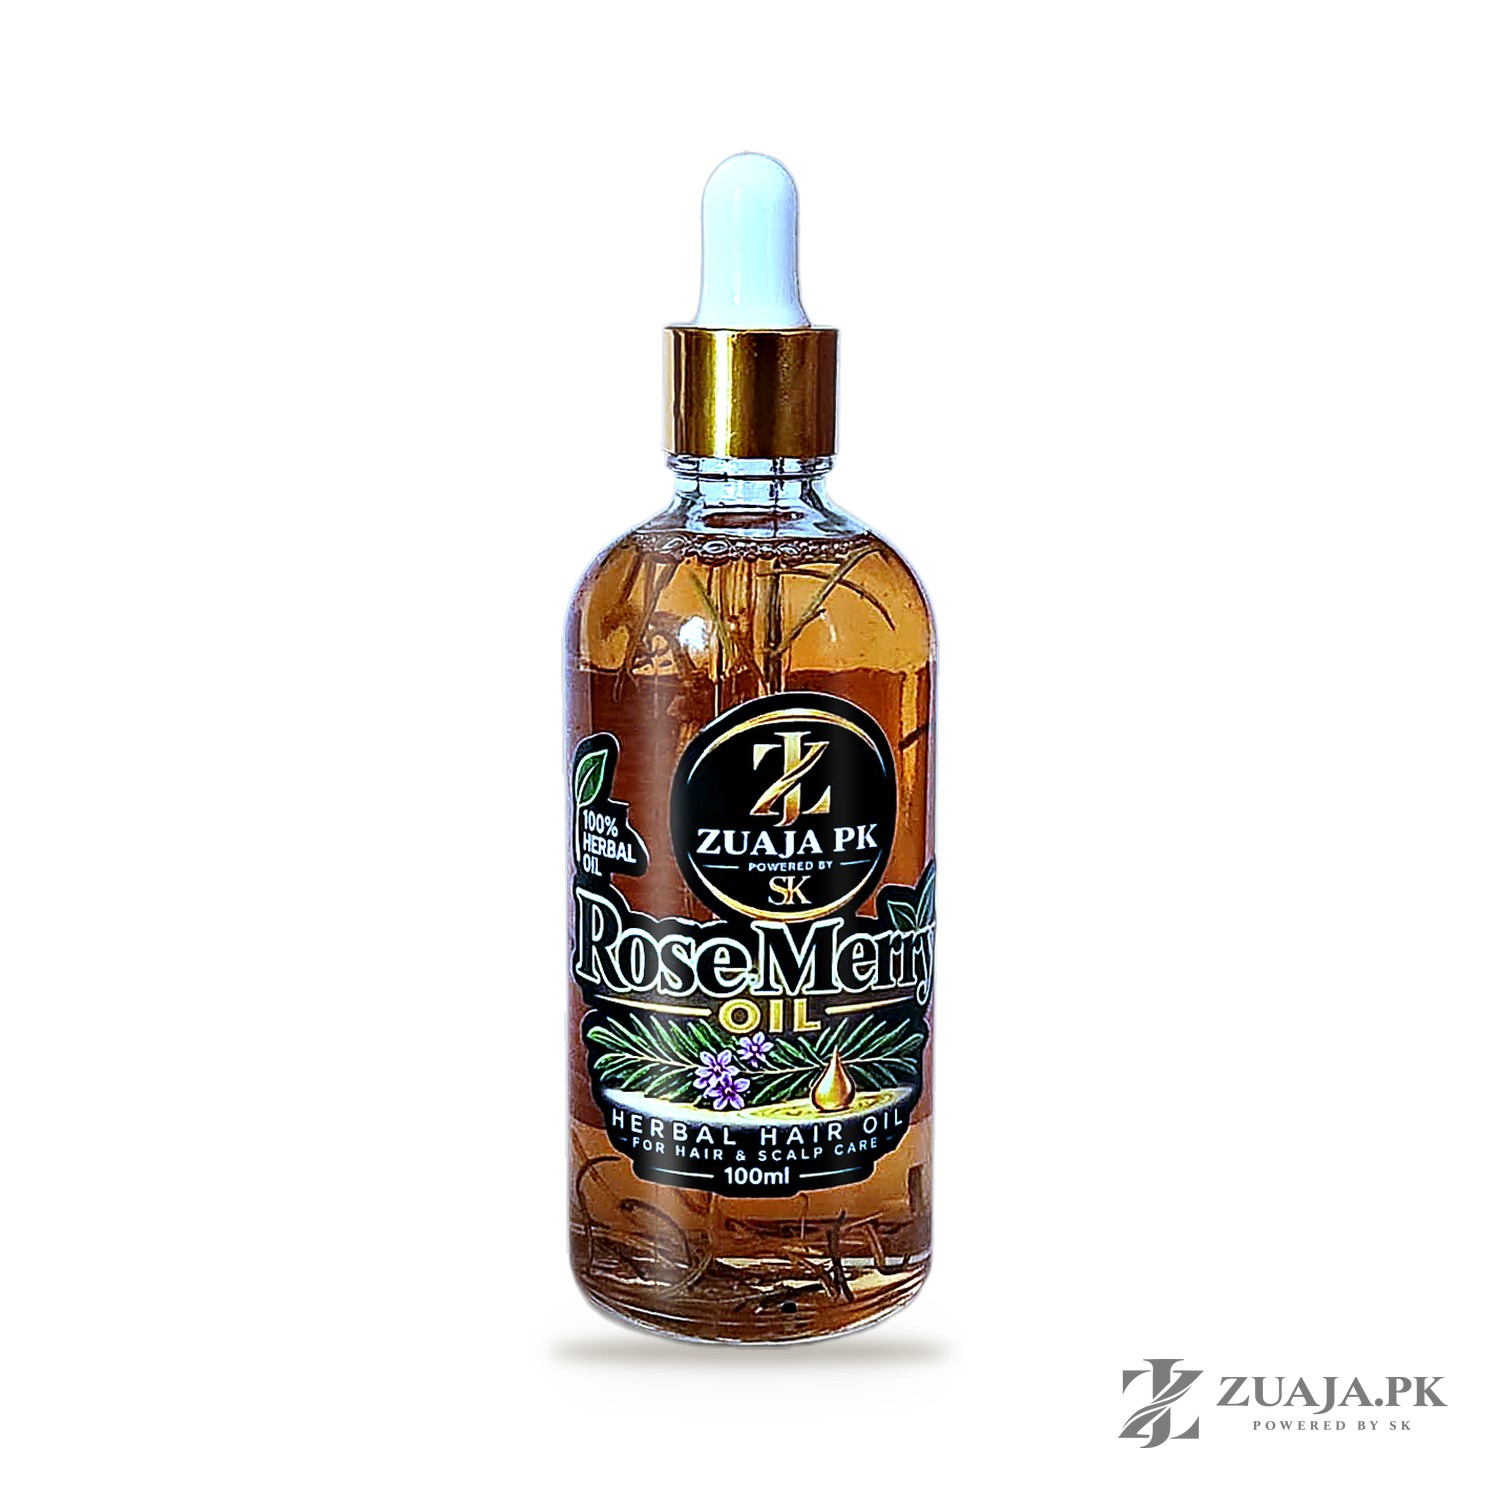
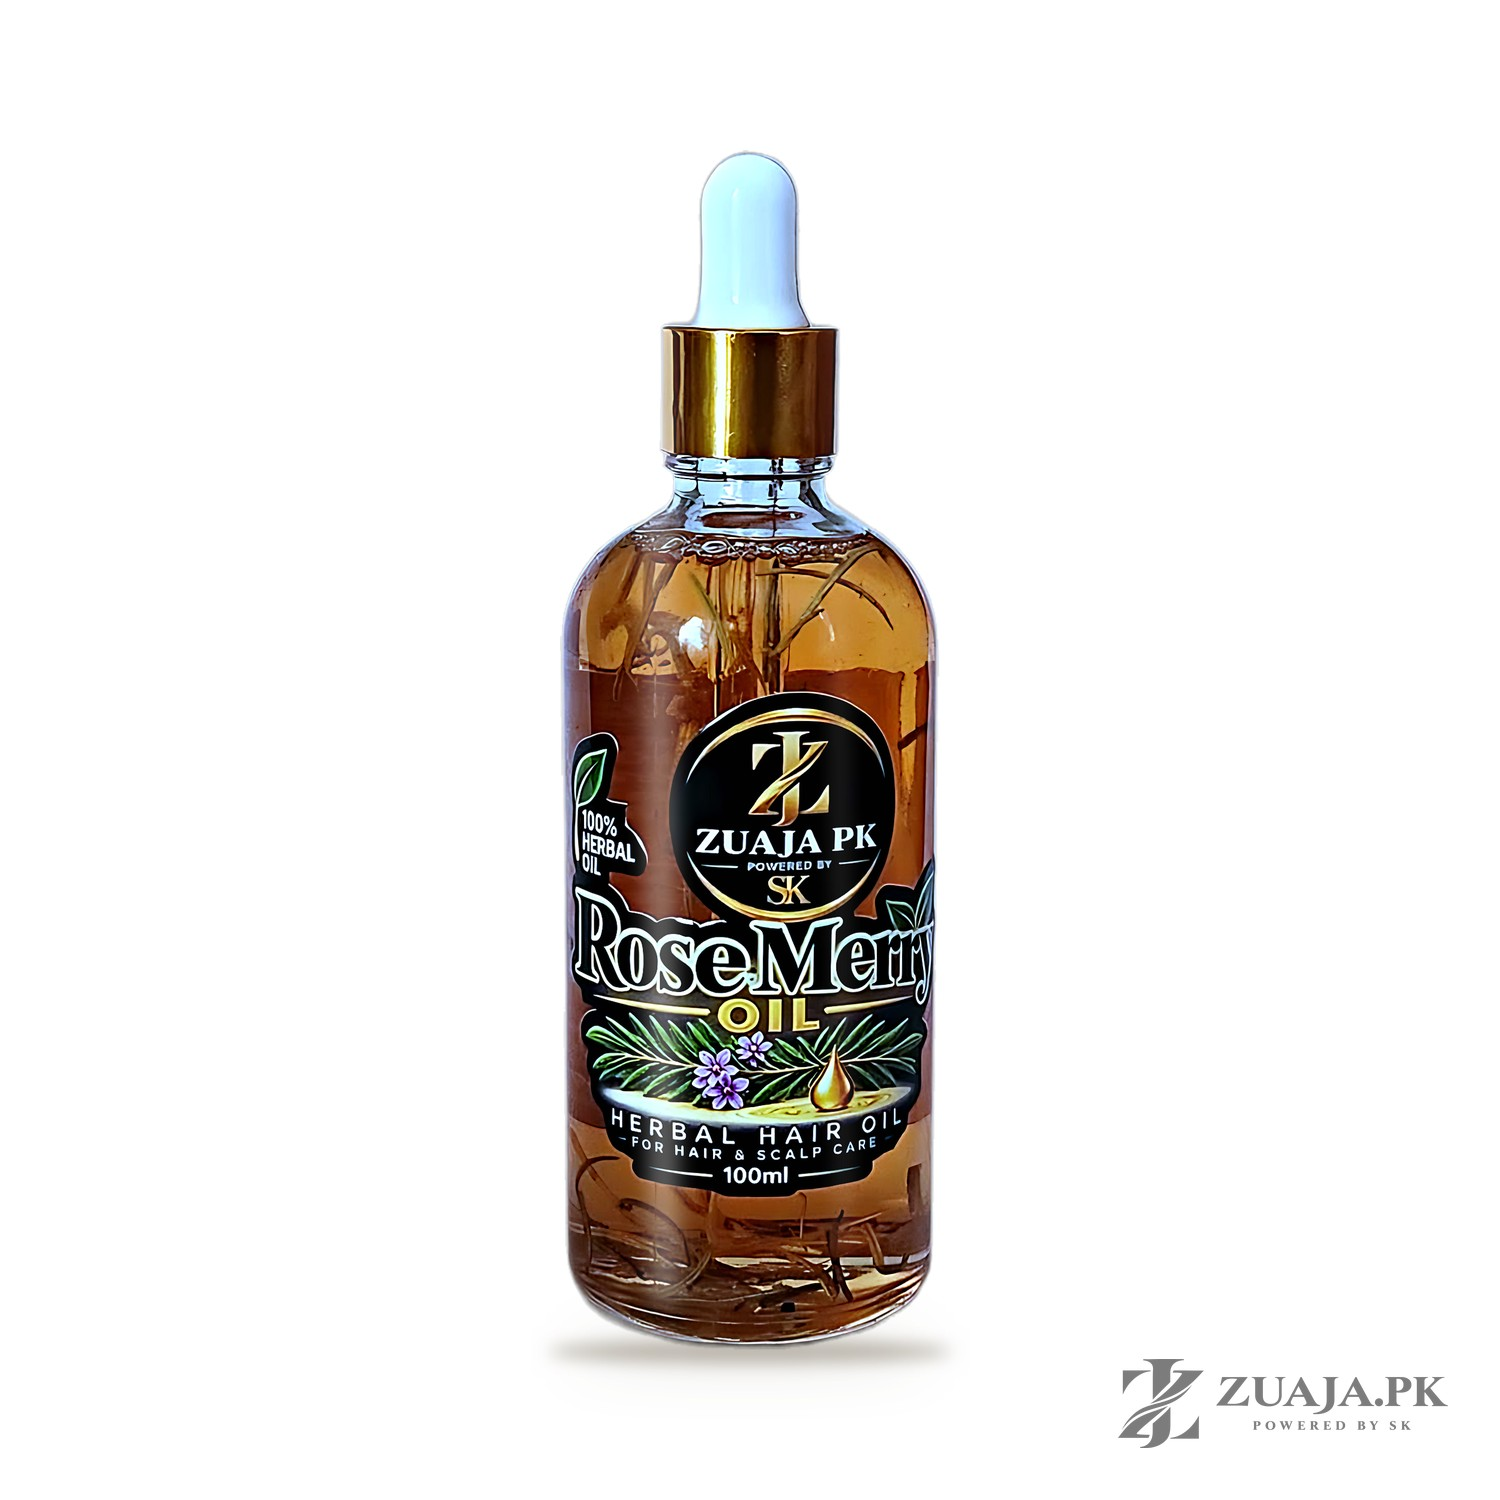
AI photo restoration (Real-ESRGAN via onnxruntime, weights-only loader) + theme sections for white storefront
Claude-Session: https://claude.ai/code/session_01FHxRitzaKkbjSXsXse4VX8

Changed region(s): [[0.368, 0.092, 0.644, 0.92]]

diff --git a/theme/assets/zs.css b/theme/assets/zs.css
@@ -1,0 +1,76 @@
+/* Zuaja Shop (zs) — white light theme: clean e-commerce structure, Zuaja ink + gold accents. */
+.zs{--zs-ink:#171717;--zs-gold:#b08028;--zs-gold-l:#e5c271;--zs-line:#ece6da;--zs-soft:#faf8f4;--zs-muted:#6b6457;--zs-sale:#b3261e;--zs-radius:14px;background:#fff;color:var(--zs-ink)}
+.zs *{box-sizing:border-box}
+.zs-wrap{width:min(1240px,100% - 32px);margin-inline:auto}
+.zs-section{padding-block:clamp(28px,5vw,56px)}
+.zs-head{display:flex;align-items:end;justify-content:space-between;gap:16px;margin-block-end:22px}
+.zs-head h2{margin:0;font-family:'Cinzel','Times New Roman',serif;font-weight:600;font-size:clamp(22px,3vw,32px);letter-spacing:.02em}
+.zs-head p{margin:6px 0 0;color:var(--zs-muted);font-size:14px}
+.zs-head a{flex:none;color:var(--zs-ink);font-weight:600;font-size:14px;text-decoration:underline;text-underline-offset:4px}
+.zs-kicker{display:block;color:var(--zs-gold);font-size:12px;font-weight:600;letter-spacing:.2em;text-transform:uppercase;margin-block-end:6px}
+
+/* hero slider */
+.zs-hero{position:relative;background:#fff}
+.zs-hero__track{display:flex;overflow-x:auto;scroll-snap-type:x mandatory;scroll-behavior:smooth;scrollbar-width:none}
+.zs-hero__track::-webkit-scrollbar{display:none}
+.zs-hero__slide{flex:0 0 100%;scroll-snap-align:start;display:block}
+.zs-hero__slide img{display:block;width:100%;height:auto}
+.zs-hero__dots{position:absolute;inset-inline:0;inset-block-end:14px;display:flex;justify-content:center;gap:8px}
+.zs-hero__dots button{width:9px;height:9px;padding:0;border:0;border-radius:99px;background:rgb(23 23 23 / .25);cursor:pointer;transition:width .3s ease,background .3s ease}
+.zs-hero__dots button[aria-current="true"]{width:26px;background:var(--zs-gold)}
+
+/* trust strip */
+.zs-trust{border-block:1px solid var(--zs-line);background:var(--zs-soft)}
+.zs-trust ul{display:grid;grid-template-columns:repeat(4,minmax(0,1fr));gap:12px;margin:0;padding:16px 0;list-style:none}
+.zs-trust li{display:flex;align-items:center;justify-content:center;gap:10px;font-size:14px;font-weight:600;text-align:start}
+.zs-trust svg{flex:none;width:26px;height:26px;stroke:var(--zs-gold);fill:none;stroke-width:1.6;stroke-linecap:round;stroke-linejoin:round}
+@media (max-width:760px){.zs-trust ul{grid-template-columns:repeat(2,minmax(0,1fr))}.zs-trust li{justify-content:flex-start;font-size:13px}}
+
+/* categories */
+.zs-cats{display:grid;grid-template-columns:repeat(6,minmax(0,1fr));gap:18px}
+.zs-cat{display:grid;justify-items:center;gap:10px;color:var(--zs-ink);text-decoration:none;text-align:center}
+.zs-cat img{width:100%;max-width:170px;height:auto;aspect-ratio:1;border-radius:50%;transition:transform .35s cubic-bezier(.2,.7,.2,1)}
+.zs-cat:hover img{transform:translateY(-4px) scale(1.03)}
+.zs-cat span{font-weight:600;font-size:14px}
+@media (max-width:900px){.zs-cats{grid-template-columns:repeat(3,minmax(0,1fr))}}
+
+/* product grid + card */
+.zs-grid{display:grid;grid-template-columns:repeat(4,minmax(0,1fr));gap:20px}
+@media (max-width:1000px){.zs-grid{grid-template-columns:repeat(3,minmax(0,1fr))}}
+@media (max-width:700px){.zs-grid{grid-template-columns:repeat(2,minmax(0,1fr));gap:12px}}
+.zs-card{position:relative;display:flex;flex-direction:column;min-width:0;border:1px solid var(--zs-line);border-radius:var(--zs-radius);background:#fff;overflow:hidden;transition:transform .35s cubic-bezier(.2,.7,.2,1),box-shadow .35s ease}
+.zs-card:hover{transform:translateY(-4px);box-shadow:0 14px 30px rgb(23 23 23 / .09)}
+.zs-card__media{position:relative;display:block;aspect-ratio:1;background:#fff;overflow:hidden}
+.zs-card__media img{width:100%;height:100%;object-fit:contain;transition:transform .6s cubic-bezier(.2,.7,.2,1)}
+.zs-card:hover .zs-card__media img{transform:scale(1.05)}
+.zs-card__media::before{content:"";position:absolute;inset:0;z-index:2;background:linear-gradient(115deg,transparent 30%,rgb(255 255 255 / .55) 48%,transparent 66%);transform:translateX(-120%);pointer-events:none}
+.zs-card:hover .zs-card__media::before{transition:transform .9s ease;transform:translateX(120%)}
+.zs-card__badge{position:absolute;inset-block-start:10px;inset-inline-start:10px;z-index:3;padding:4px 9px;border-radius:99px;background:var(--zs-sale);color:#fff;font-size:12px;font-weight:700}
+.zs-card__body{display:flex;flex:1;flex-direction:column;gap:6px;padding:12px 14px 14px}
+.zs-card__type{color:var(--zs-gold);font-size:11px;font-weight:600;letter-spacing:.14em;text-transform:uppercase}
+.zs-card__title{margin:0;font-size:15px;font-weight:600;line-height:1.35}
+.zs-card__title a{color:inherit;text-decoration:none}
+.zs-card__price{display:flex;flex-wrap:wrap;align-items:baseline;gap:8px;margin-block-start:auto;font-weight:700;font-size:16px}
+.zs-card__price s{color:var(--zs-muted);font-weight:500;font-size:13px}
+.zs-btn{display:inline-flex;align-items:center;justify-content:center;gap:8px;width:100%;min-height:44px;padding:10px 16px;border:1px solid var(--zs-ink);border-radius:999px;background:var(--zs-ink);color:#fff;font:inherit;font-weight:600;font-size:14px;letter-spacing:.04em;cursor:pointer;text-decoration:none;transition:background .25s ease,color .25s ease}
+.zs-btn:hover{background:#fff;color:var(--zs-ink)}
+.zs-btn[disabled]{opacity:.45;cursor:not-allowed}
+.zs-card form{margin:6px 0 0}
+@media (max-width:700px){.zs-card__body{padding:10px}.zs-card__title{font-size:13px}.zs-btn{min-height:40px;font-size:13px}}
+
+/* collection page */
+.zs-col-hero{position:relative;overflow:hidden;border-radius:var(--zs-radius);background:var(--zs-soft)}
+.zs-col-hero img{display:block;width:100%;height:auto}
+.zs-col-hero__copy{position:absolute;inset-block:0;inset-inline-start:0;display:flex;flex-direction:column;justify-content:center;width:46%;padding:clamp(14px,4vw,48px)}
+.zs-col-hero__copy h1{margin:0;font-family:'Cinzel','Times New Roman',serif;font-weight:600;font-size:clamp(20px,3.4vw,40px)}
+.zs-col-hero__copy p{margin:8px 0 0;color:var(--zs-muted);font-size:clamp(12px,1.4vw,15px)}
+.zs-toolbar{display:flex;align-items:center;justify-content:space-between;gap:12px;margin-block:22px 18px;color:var(--zs-muted);font-size:14px}
+.zs-toolbar select{min-height:40px;padding:6px 12px;border:1px solid var(--zs-line);border-radius:10px;background:#fff;font:inherit;color:var(--zs-ink)}
+.zs-chips{display:flex;gap:8px;overflow-x:auto;padding-block-end:4px;scrollbar-width:none}
+.zs-chips a{flex:none;padding:8px 14px;border:1px solid var(--zs-line);border-radius:99px;color:var(--zs-ink);font-size:13px;font-weight:600;text-decoration:none;white-space:nowrap}
+.zs-chips a[aria-current="page"]{border-color:var(--zs-ink);background:var(--zs-ink);color:#fff}
+.zs-pagination{display:flex;justify-content:center;gap:8px;margin-block-start:28px}
+.zs-pagination a,.zs-pagination span{min-width:40px;padding:8px 12px;border:1px solid var(--zs-line);border-radius:10px;text-align:center;color:var(--zs-ink);text-decoration:none}
+.zs-pagination .current{background:var(--zs-ink);color:#fff;border-color:var(--zs-ink)}
+
+@media (prefers-reduced-motion:reduce){.zs-card,.zs-card__media img,.zs-cat img{transition:none}.zs-card:hover,.zs-card:hover .zs-card__media img,.zs-cat:hover img{transform:none}.zs-card__media::before{display:none}.zs-hero__track{scroll-behavior:auto}}

diff --git a/tools/esrgan_onnx.py b/tools/esrgan_onnx.py
@@ -1,0 +1,105 @@
+"""Run Real-ESRGAN (realesr-general-x4v3, SRVGGNetCompact) without PyTorch.
+
+Reads the .pth zip directly, rebuilds the network as an ONNX graph and runs it with onnxruntime.
+Usage: python3 -I esrgan_onnx.py <weights.pth> <out_dir> <image.png> [...]
+Transparent PNGs keep their (upscaled) alpha.
+"""
+import io
+import pickle
+import sys
+import zipfile
+from pathlib import Path
+
+import numpy as np
+import onnx
+import onnxruntime as ort
+from onnx import TensorProto, helper, numpy_helper
+from PIL import Image
+
+PTH, OUT = Path(sys.argv[1]), Path(sys.argv[2])
+OUT.mkdir(parents=True, exist_ok=True)
+
+
+def load_pth(path):
+    zf = zipfile.ZipFile(path)
+    prefix = zf.namelist()[0].split("/")[0]
+
+    class Storage:
+        def __init__(self, key, dtype):
+            self.key, self.dtype = key, dtype
+
+    def rebuild(storage, offset, size, stride, *args):
+        raw = np.frombuffer(zf.read(f"{prefix}/data/{storage.key}"), dtype=storage.dtype)
+        n = int(np.prod(size)) if size else 1
+        arr = raw[offset:offset + n] if all(s >= 0 for s in stride) else raw
+        return np.lib.stride_tricks.as_strided(raw[offset:], shape=size, strides=[s * raw.itemsize for s in stride]).copy() if size else arr.copy()
+
+    class U(pickle.Unpickler):
+        def find_class(self, mod, name):
+            if mod == "torch._utils" and name == "_rebuild_tensor_v2":
+                return rebuild
+            if mod == "torch" and name.endswith("Storage"):
+                return {"FloatStorage": np.float32, "HalfStorage": np.float16}.get(name, np.float32)
+            if mod == "collections" and name == "OrderedDict":
+                import collections
+                return collections.OrderedDict
+            # weights-only: refuse every other global, so nothing in the file can run code
+            raise pickle.UnpicklingError(f"blocked global {mod}.{name}")
+
+        def persistent_load(self, pid):
+            _, dtype, key, _loc, _n = pid
+            return Storage(key, dtype)
+
+    data = U(io.BytesIO(zf.read(f"{prefix}/data.pkl"))).load()
+    return data.get("params_ema") or data.get("params") or data
+
+
+def build(params):
+    keys = sorted({k.split(".")[1] for k in params if k.startswith("body.")}, key=int)
+    nodes, inits = [], []
+    cur = "x"
+    for i in keys:
+        w = params[f"body.{i}.weight"].astype(np.float32)
+        if w.ndim == 4:
+            b = params[f"body.{i}.bias"].astype(np.float32)
+            inits += [numpy_helper.from_array(w, f"w{i}"), numpy_helper.from_array(b, f"b{i}")]
+            nodes.append(helper.make_node("Conv", [cur, f"w{i}", f"b{i}"], [f"c{i}"], pads=[1, 1, 1, 1]))
+            cur = f"c{i}"
+        else:  # PReLU slope per channel
+            inits.append(numpy_helper.from_array(w.reshape(-1, 1, 1), f"a{i}"))
+            nodes.append(helper.make_node("PRelu", [cur, f"a{i}"], [f"p{i}"]))
+            cur = f"p{i}"
+    nodes.append(helper.make_node("DepthToSpace", [cur], ["ps"], blocksize=4, mode="CRD"))
+    inits.append(numpy_helper.from_array(np.array([1, 1, 4, 4], np.float32), "scales"))
+    nodes.append(helper.make_node("Resize", ["x", "", "scales"], ["up"], mode="nearest"))
+    nodes.append(helper.make_node("Add", ["ps", "up"], ["y"]))
+    g = helper.make_graph(nodes, "srvgg", [helper.make_tensor_value_info("x", TensorProto.FLOAT, [1, 3, None, None])],
+                          [helper.make_tensor_value_info("y", TensorProto.FLOAT, [1, 3, None, None])], inits)
+    m = helper.make_model(g, opset_imports=[helper.make_opsetid("", 17)], ir_version=9)
+    return m.SerializeToString()
+
+
+def main():
+    sess = ort.InferenceSession(build(load_pth(PTH)), providers=["CPUExecutionProvider"])
+    for src in map(Path, sys.argv[3:]):
+        im = Image.open(src)
+        alpha = im.getchannel("A") if im.mode == "RGBA" else None
+        rgb = im.convert("RGB")
+        # keep compute bounded: longest side up to 900 px before the x4 pass
+        k = min(1.0, 900 / max(rgb.size))
+        if k < 1:
+            rgb = rgb.resize((round(rgb.width * k), round(rgb.height * k)), Image.LANCZOS)
+            if alpha is not None:
+                alpha = alpha.resize(rgb.size, Image.LANCZOS)
+        x = (np.asarray(rgb).astype(np.float32) / 255.0).transpose(2, 0, 1)[None]
+        y = sess.run(None, {"x": x})[0][0]
+        out = Image.fromarray((np.clip(y.transpose(1, 2, 0), 0, 1) * 255).round().astype(np.uint8))
+        if alpha is not None:
+            out = out.convert("RGBA")
+            out.putalpha(alpha.resize(out.size, Image.LANCZOS))
+        out.save(OUT / (src.stem + ".png"), optimize=False)
+        print(src.name, out.size, flush=True)
+
+
+if __name__ == "__main__":
+    main()

diff --git a/tools/make_podium.py b/tools/make_podium.py
@@ -111,7 +111,7 @@ def retouch(p, gloss=True):
     arr = x * 255
     rgb = Image.fromarray(arr.astype(np.uint8))
     clar = rgb.filter(ImageFilter.UnsharpMask(radius=24, percent=35, threshold=0))
-    rgb = clar.filter(ImageFilter.UnsharpMask(radius=1.6, percent=110, threshold=2))
+    rgb = clar.filter(ImageFilter.UnsharpMask(radius=1.6, percent=(40 if os.environ.get("ZUAJA_SR") else 110), threshold=2))
     rgb = ImageEnhance.Color(rgb).enhance(1.16)
     out = rgb.convert("RGBA")
     if gloss:
